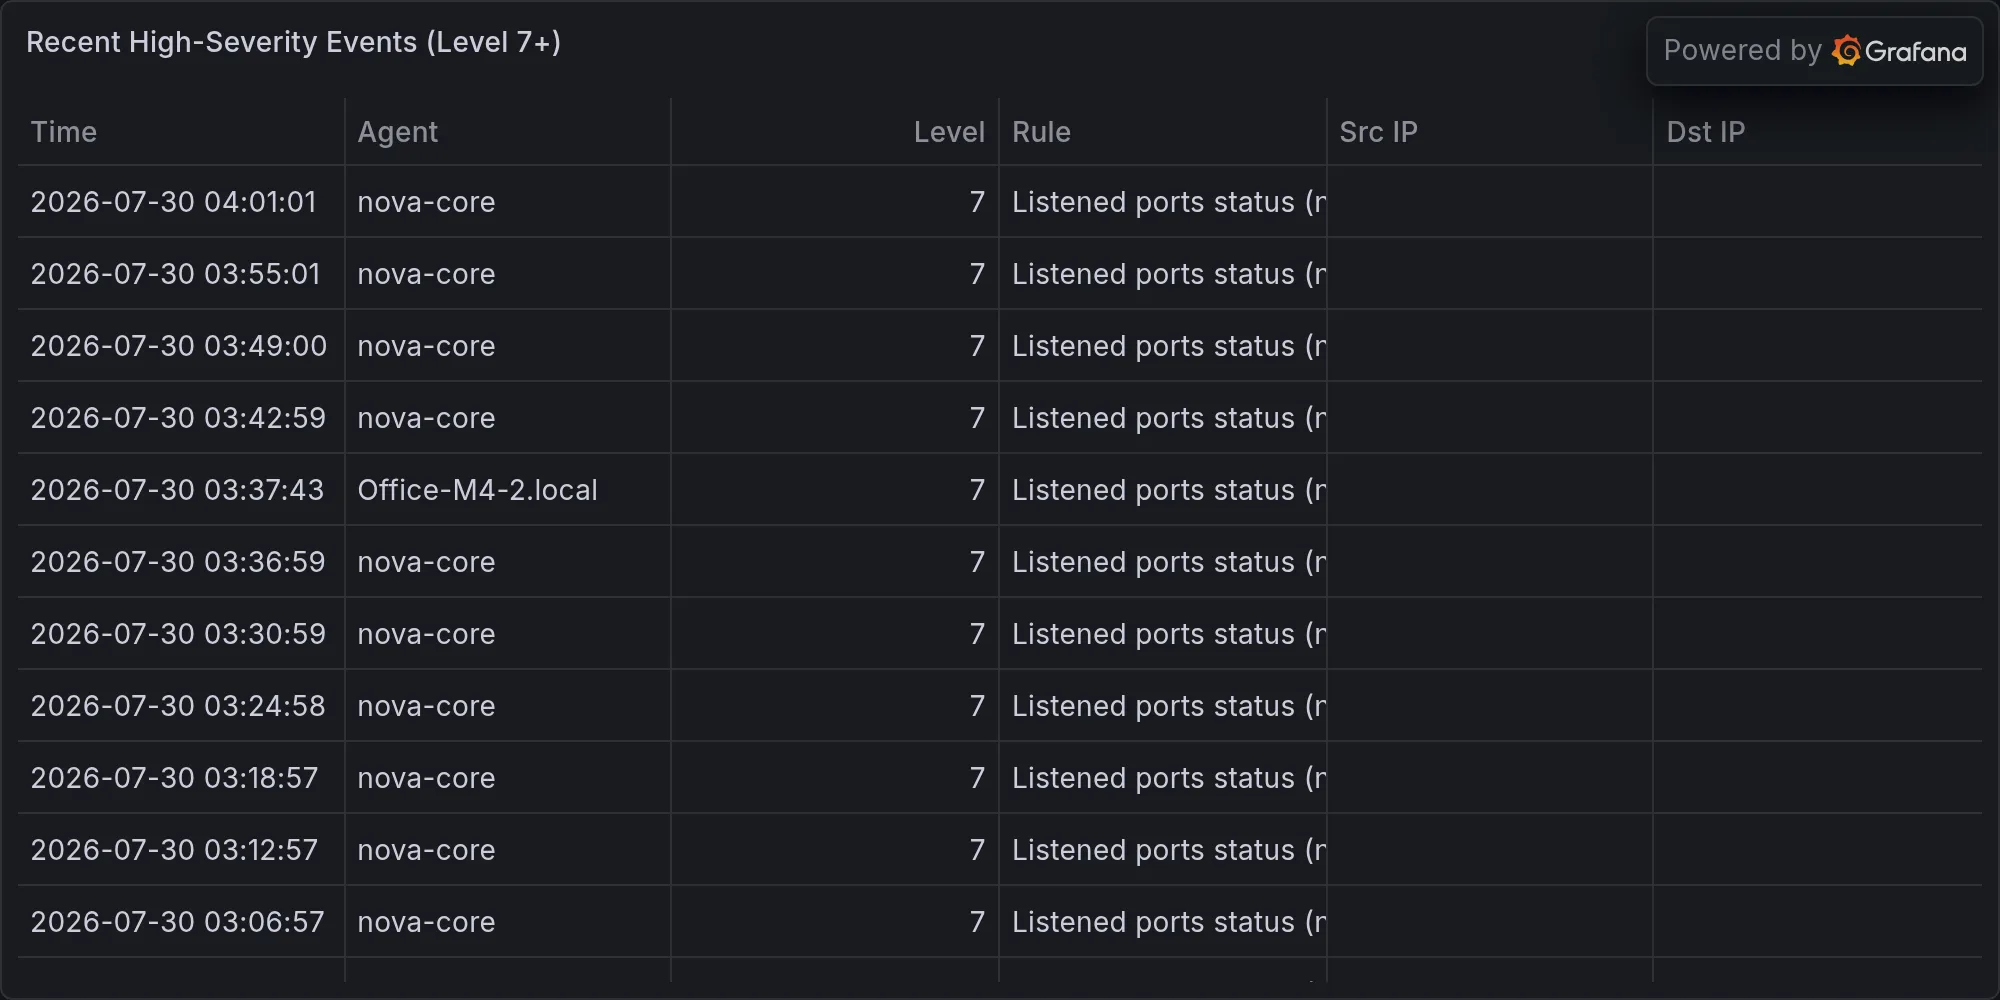
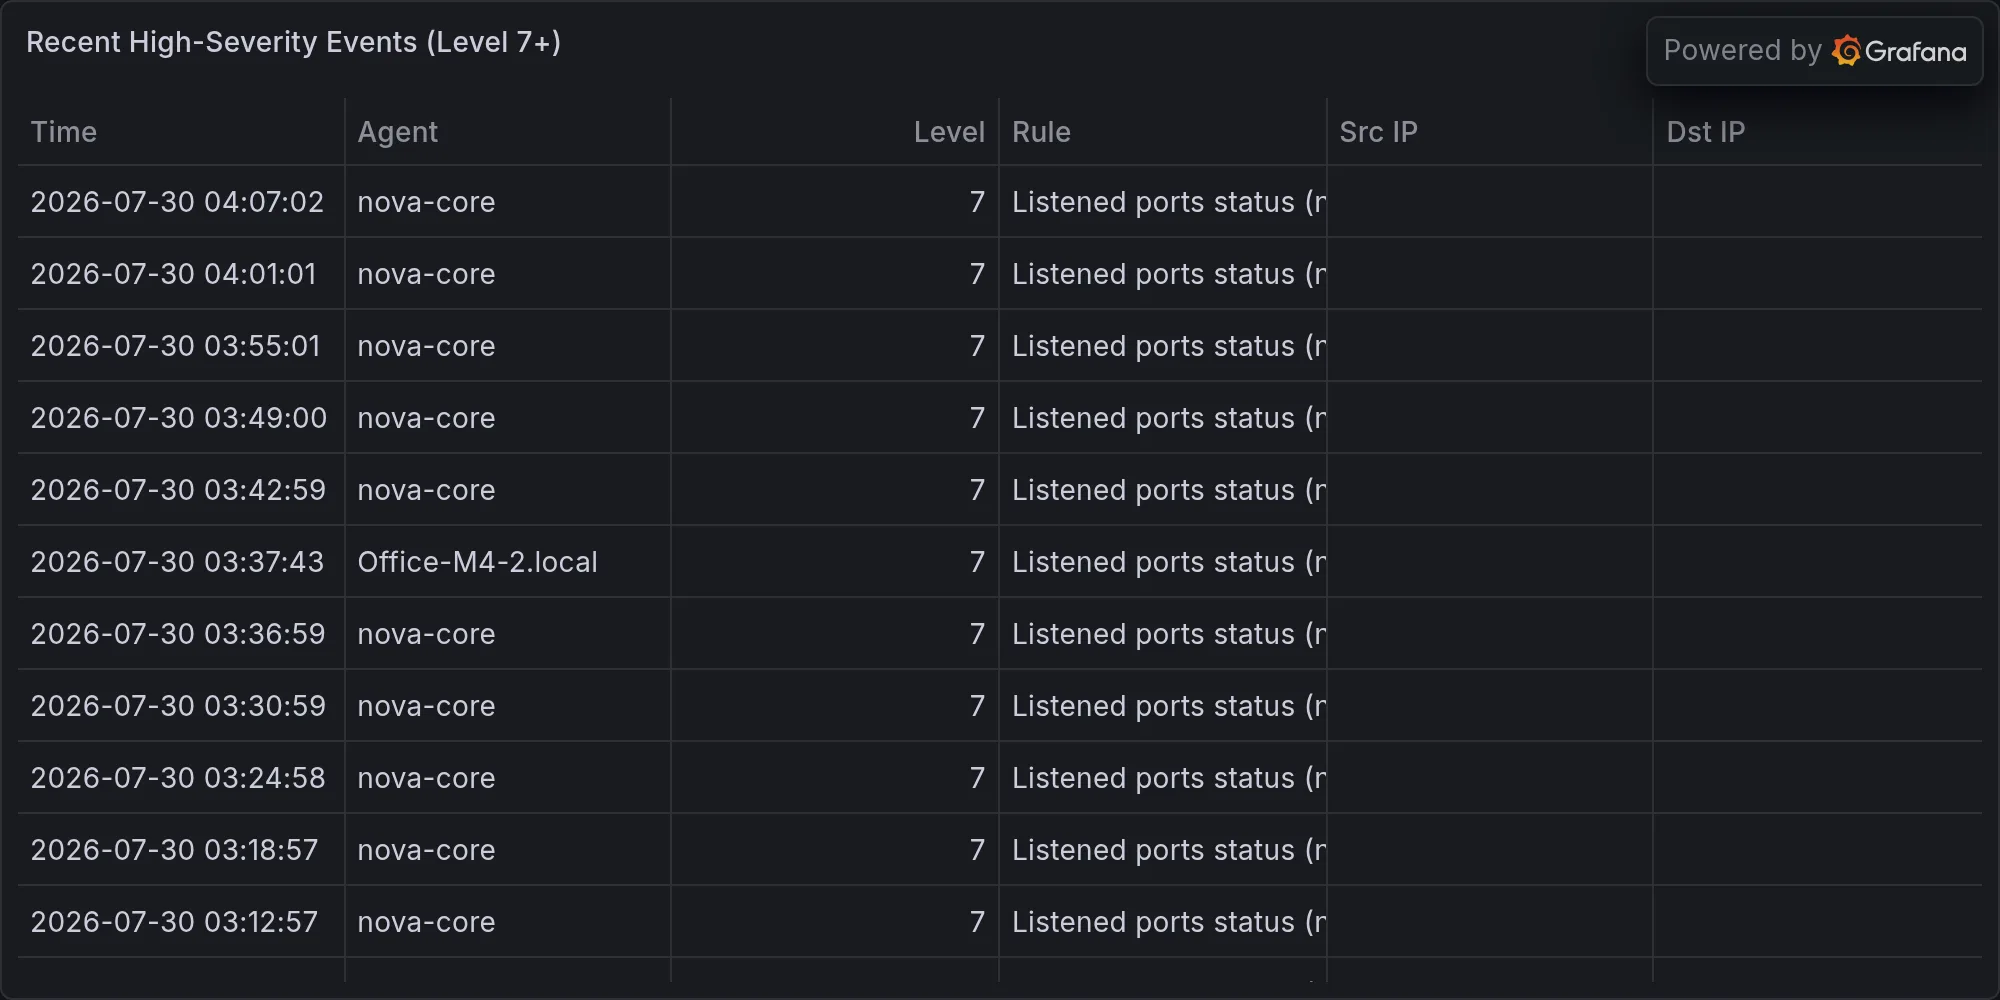
security: 2026-07-30 — CISCO FMC ZERO-DAY (CVE-2026-20316) — ACTIVE EXPLO

diff --git a/content/operations/2026-07-30-cisco-fmc-zero-day-cve-2026-20316-active-exploitation-static.md b/content/operations/2026-07-30-cisco-fmc-zero-day-cve-2026-20316-active-exploitation-static.md
@@ -1,0 +1,61 @@
+---
+title: "🛡 CISCO FMC ZERO-DAY (CVE-2026-20316) — ACTIVE EXPLOITATION / STATIC CREDENTIALS"
+date: 2026-07-30T04:08:25-07:00
+draft: false
+categories: ["operations"]
+tags: ["breaking-alert", "the-hacker-news-cisco-fmc-zero-day-activ", "security"]
+description: "BREAKING: The Hacker News: Cisco FMC Zero-Day Actively Exploited, Static Credentials Could Expose Sensitive Da"
+cover:
+  image: "/images/operations/2026-07-30-cisco-fmc-zero-day-cve-2026-20316-active-exploitation-static.webp"
+  alt: "CISCO FMC ZERO-DAY (CVE-2026-20316) — ACTIVE EXPLOITATION / STATIC CREDENTIALS"
+  relative: false
+---
+
+*Published Thursday, July 30, 2026 at 04:08 AM PT*
+
+![CISCO FMC ZERO-DAY (CVE-2026-20316) — ACTIVE EXPLOITATION / STATIC CREDENTIALS](/images/operations/2026-07-30-cisco-fmc-zero-day-cve-2026-20316-active-exploitation-static.webp)
+
+**BLUF:** Cisco Secure Firewall Management Center (FMC) zero-day vulnerability (CVE-2026-20316) exploits hardcoded credentials to grant remote unauthenticated access; active exploitation confirmed in the wild. Patch immediately if deployed.
+
+---
+
+## DETAILS
+
+- **Vulnerability:** Static credential flaw in Cisco Secure FMC; CVE-2026-20316  
+- **Access vector:** Remote, unauthenticated exploitation confirmed; no prior auth required  
+- **Active exploitation:** Multiple threat actors documented exploiting in-the-wild; confirmed targeting at communications service providers  
+- **Exposure:** Hardcoded credentials enable management-plane access; sensitive firewall data at risk (policies, logs, configurations)  
+- **Patches available:** Cisco has released security updates; version numbers and timelines not specified in available reporting  
+
+---
+
+## IMPACT
+
+- **Scope:** Any organization with Cisco Secure FMC deployed  
+- **Privilege escalation risk:** Management-plane access = potential root/admin-level control of firewall infrastructure  
+- **Data exposure:** Firewall configurations, audit logs, network policies, potentially lateral-movement pathways  
+- **Infrastructure targeting:** Incidents reported at telecommunications sector; likely broader CSP/ISP exposure  
+- **Cascade risk:** FMC compromise can enable compromise of downstream Cisco security products (IDS/IPS, threat intelligence feeds)  
+
+---
+
+## RECOMMENDED ACTIONS
+
+1. **Inventory immediately** — identify all Cisco Secure FMC instances in your environment (version, deployment status)  
+2. **Patch on priority** — apply Cisco security patches as soon as tested; do not defer  
+3. **Access logs review** — search FMC audit logs for authentication anomalies, failed logins, privilege escalations (check from 30+ days prior)  
+4. **Isolate management** — restrict FMC administrative interfaces to trusted networks / jump hosts only pending patch verification  
+5. **Credential rotation** — if FMC has been exposed or logs are incomplete, reset all administrative credentials post-patch  
+6. **Monitor for similar flaws** — Cisco has disclosed multiple zero-days in 2026 (SD-WAN CVE-2026-20245, Unified CM CVE-2026-20230); audit all Cisco appliances for hardcoded/weak defaults  
+
+---
+
+## SOURCES
+
+The Hacker News | BleepingComputer | SecurityWeek | Help Net Security | CyberScoop | news4hackers
+
+---
+
+**Recent high-severity events at publish time:**
+
+![Recent high-severity events](/images/operations/2026-07-30-breaking-alert-posture.webp)
